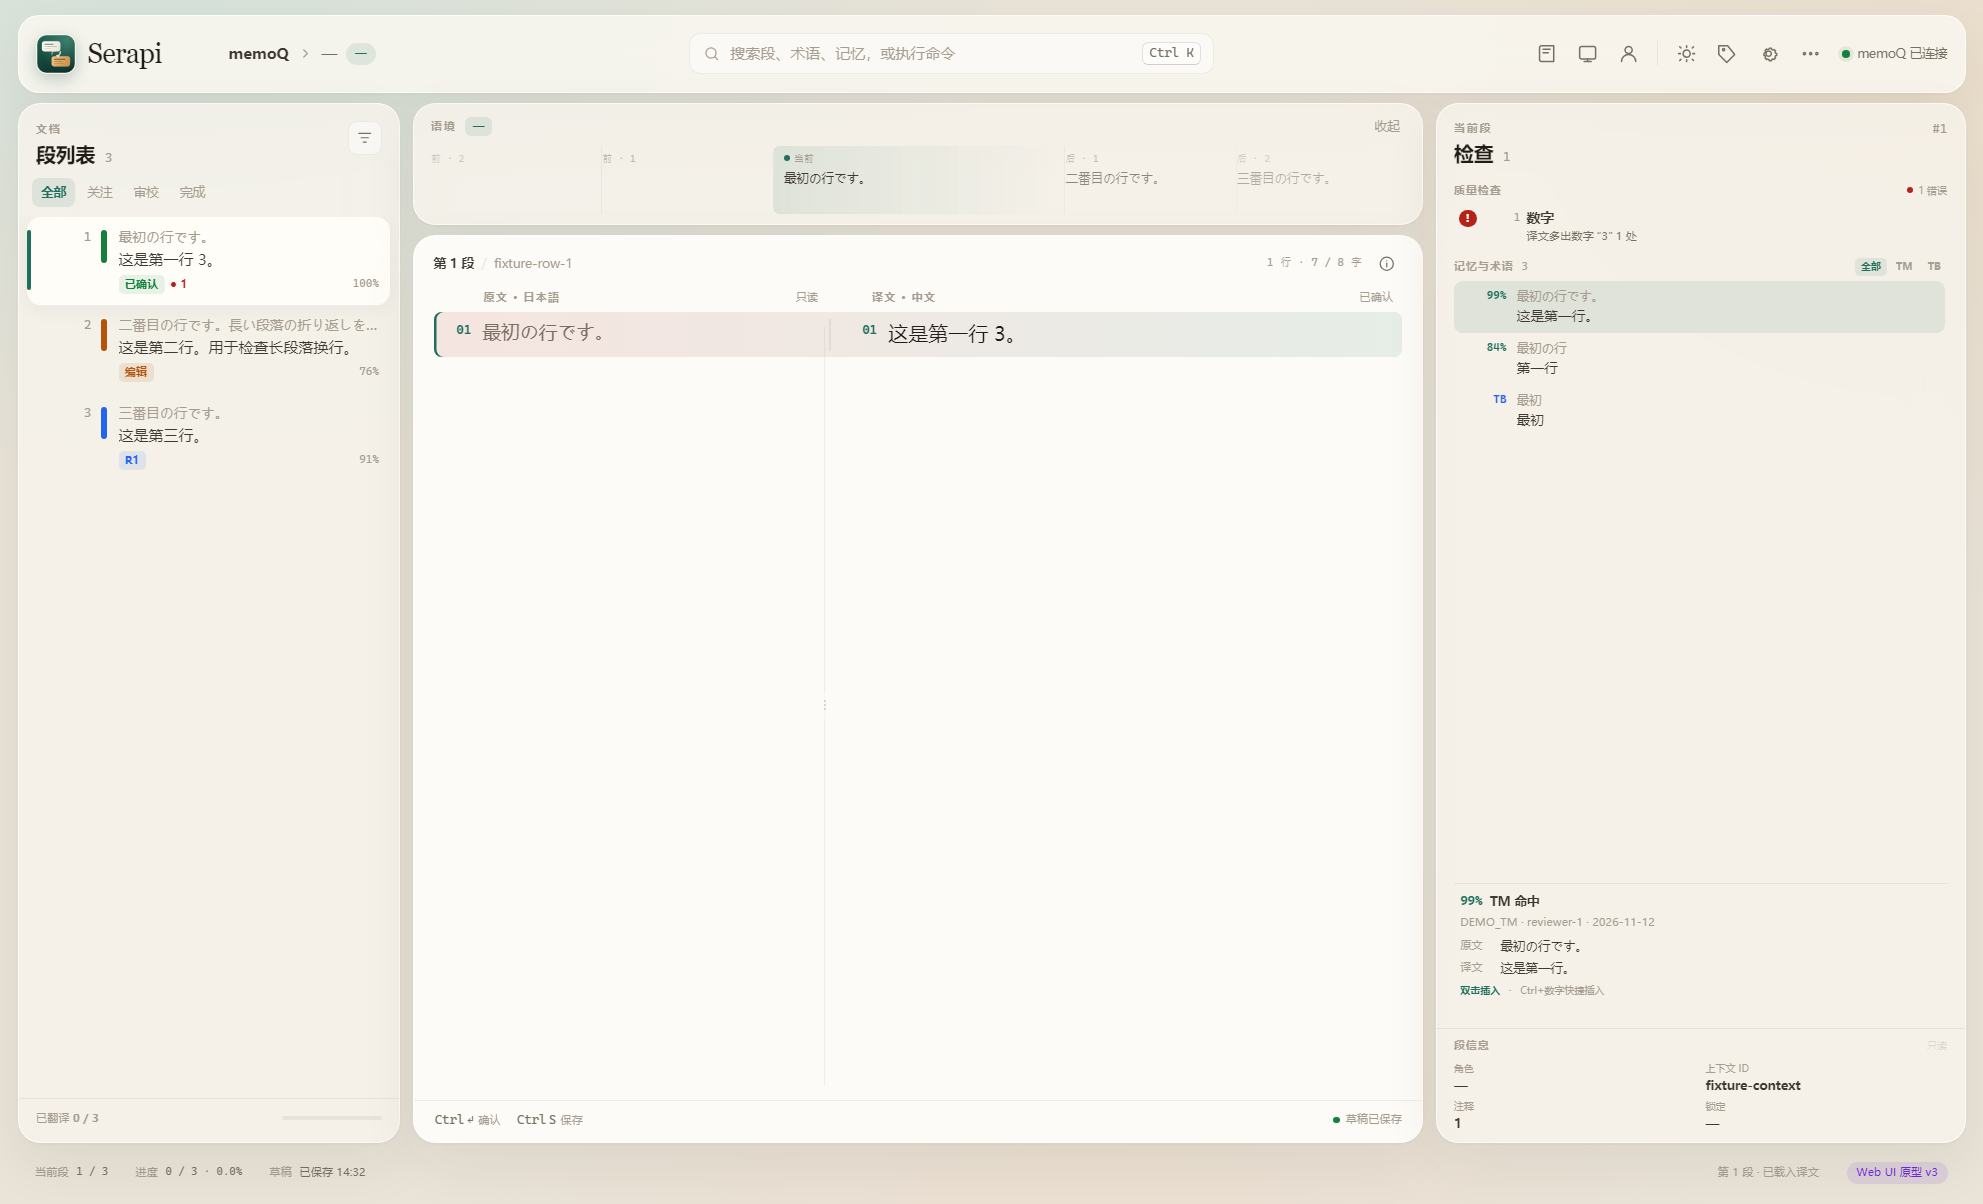
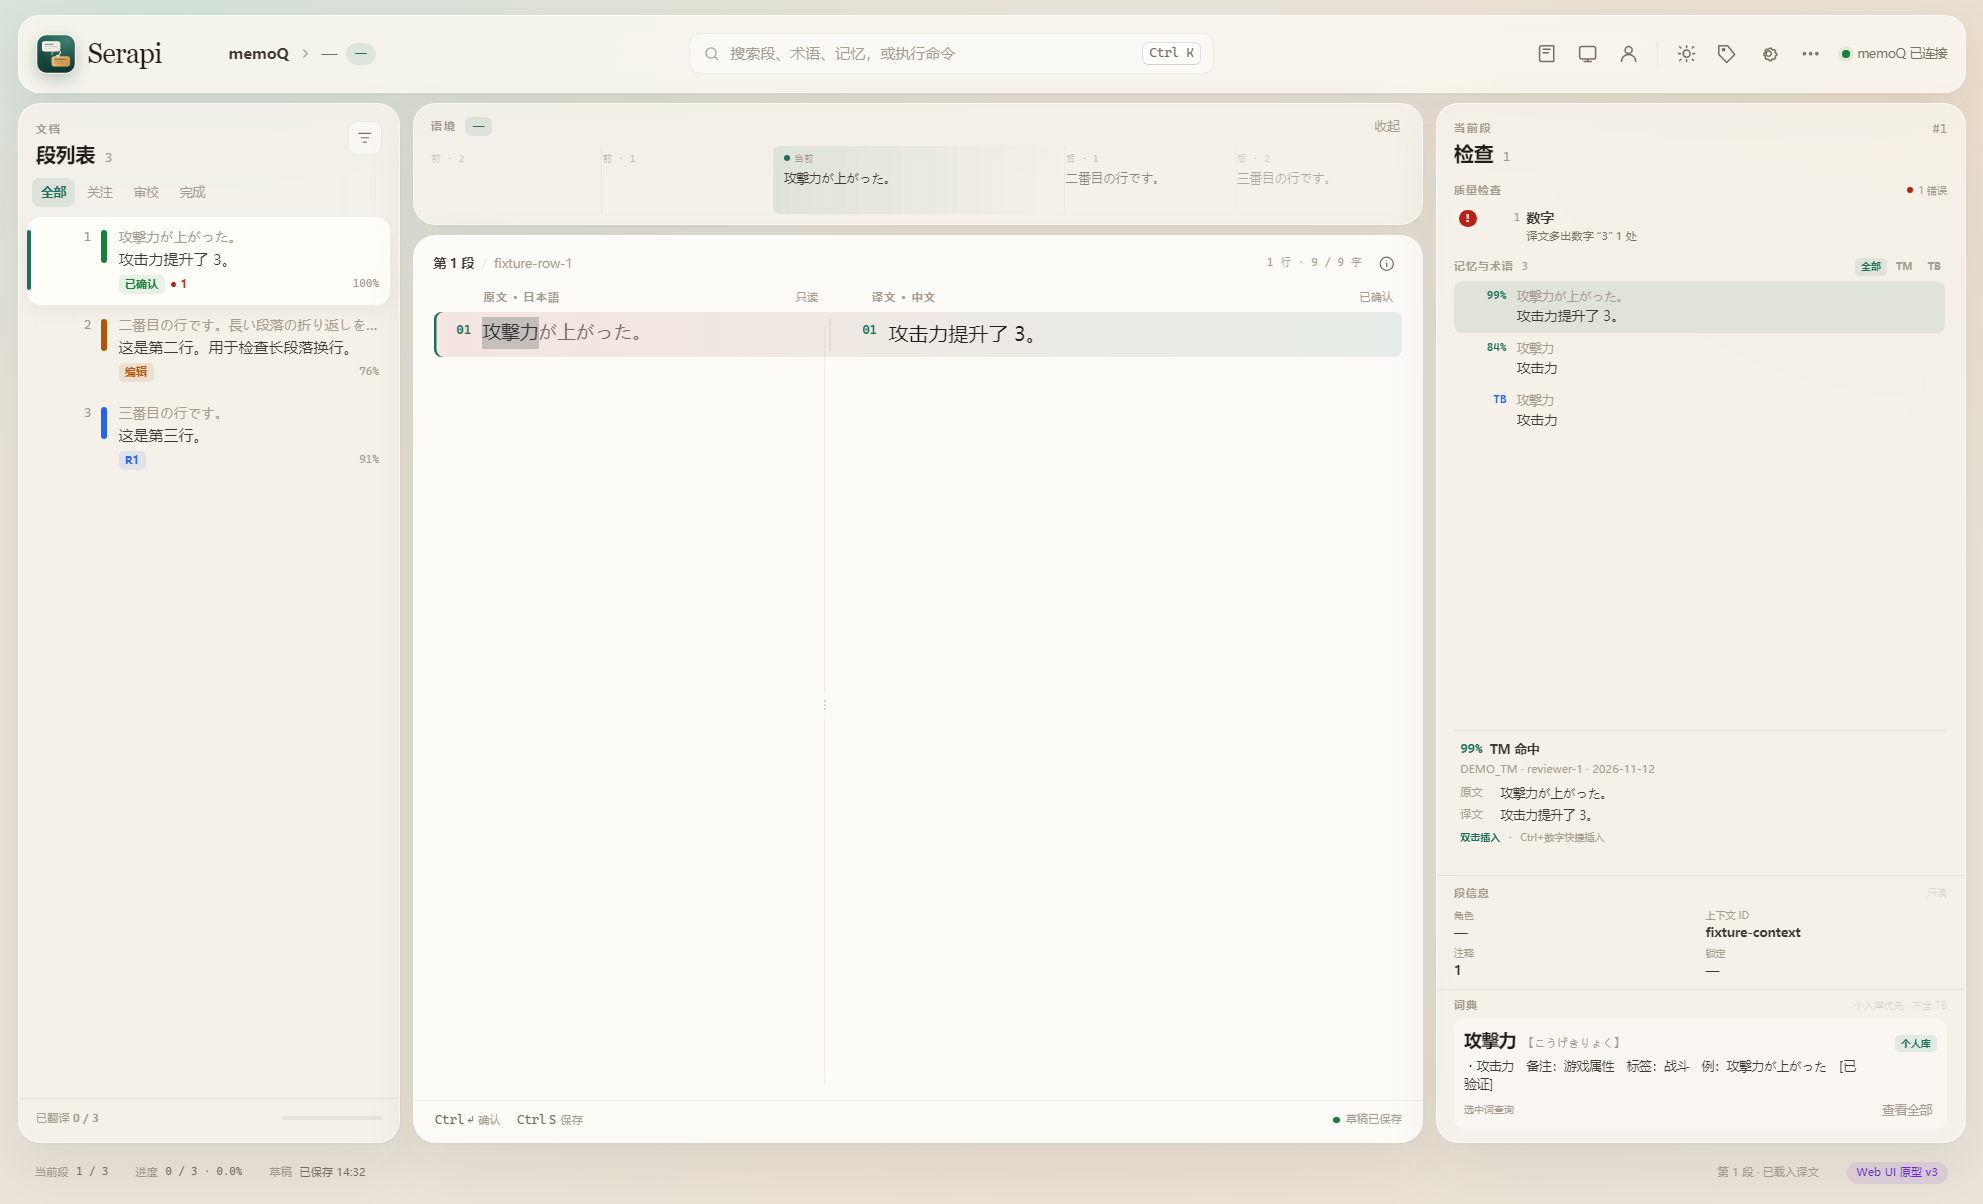
electron: selection-driven personal dictionary
- dictionary.query reuses app/assets.py, personal first, no TB
- selection in paired editor triggers compact word card
- capture helper selects a synthetic word for visual verification
- dictionary contract uses isolated synthetic assets fixture

diff --git a/electron/engine/fixture-api.html b/electron/engine/fixture-api.html
@@ -28,7 +28,7 @@
             total: 3,
             source: "new-api",
             rows: [
-              { rowNo: 1, rowId: "fixture-row-1", src: "最初の行です。", tgt: "这是第一行 3。", status: "manuallyConfirmed", tmRate: 100, locked: false },
+              { rowNo: 1, rowId: "fixture-row-1", src: "攻撃力が上がった。", tgt: "攻击力提升了 3。", status: "manuallyConfirmed", tmRate: 100, locked: false },
               { rowNo: 2, rowId: "fixture-row-2", src: "二番目の行です。長い段落の折り返しを確認します。", tgt: "这是第二行。用于检查长段落换行。", status: "partiallyEdited", tmRate: 76, locked: false },
               { rowNo: 3, rowId: "fixture-row-3", src: "三番目の行です。", tgt: "这是第三行。", status: "proofread", tmRate: 91, locked: false }
             ]
@@ -38,7 +38,7 @@
           return {
             ok: true,
             rows: [
-              { rowNo: 1, sourcecell: '最初の行です。', speaker: '', maxLen: 0, extras: [] },
+              { rowNo: 1, sourcecell: '攻撃力が上がった。', speaker: '', maxLen: 0, extras: [] },
               { rowNo: 2, sourcecell: '二番目の行です。', speaker: 'アリス', maxLen: 42, extras: [] },
               { rowNo: 3, sourcecell: '三番目の行です。', speaker: '', maxLen: 0, extras: [] },
               { rowNo: 4, sourcecell: '四番目の行です。', speaker: '', maxLen: 0, extras: [] },
@@ -50,11 +50,11 @@
           window.__fixtureTm = {
             status: 'done',
             tm: [
-              { rate: 99, res: 'DEMO_TM', user: 'reviewer-1', time: '2026-11-12', srcDisp: '最初の行です。', tgtDecorated: '这是第一行。' },
-              { rate: 84, res: 'DEMO_TM', user: 'reviewer-2', time: '2026-11-10', srcDisp: '最初の行', tgtDecorated: '第一行' }
+              { rate: 99, res: 'DEMO_TM', user: 'reviewer-1', time: '2026-11-12', srcDisp: '攻撃力が上がった。', tgtDecorated: '攻击力提升了 3。' },
+              { rate: 84, res: 'DEMO_TM', user: 'reviewer-2', time: '2026-11-10', srcDisp: '攻撃力', tgtDecorated: '攻击力' }
             ],
             tb: [
-              { s: '最初', t: '最初', res: 'Demo Terms', user: '', time: '' }
+              { s: '攻撃力', t: '攻击力', res: 'Demo Terms', user: '', time: '' }
             ]
           };
           return { ok: true, row: rowNo };
@@ -80,8 +80,8 @@
           }
           return {
             ok: true, rowId: rowId, rowNo: 1, locked: false,
-            srcTokens: [{ t: 'text', v: '最初の行です。' }],
-            tokens: [{ t: 'text', v: '这是第一行 3。' }]
+            srcTokens: [{ t: 'text', v: '攻撃力が上がった。' }],
+            tokens: [{ t: 'text', v: '攻击力提升了 3。' }]
           };
         }
       }

diff --git a/electron/workspace/app.js b/electron/workspace/app.js
@@ -312,6 +312,55 @@ async function loadContextForSegment(seg, index) {
   } catch (_) {}
 }
 
+let dictTimer = null;
+
+async function lookupSelectedWord(word) {
+  const host = window.serapiHost;
+  const section = document.querySelector("#dictSection");
+  if (!host || !host.sidecar || !section) return;
+  try {
+    const reply = await host.sidecar.call("dictionary.query", { word });
+    const result = reply && reply.ok ? reply.result : null;
+    if (!result || !result.ok || !Array.isArray(result.hits) || !result.hits.length) {
+      section.hidden = true;
+      return;
+    }
+    const hit = result.hits[0];
+    const entry = String((hit.entries && hit.entries[0]) || "").trim();
+    if (!entry) { section.hidden = true; return; }
+    const lines = entry.split("\n");
+    const first = lines.shift() || "";
+    let reading = "";
+    if (first.includes(word)) reading = first.replace(word, "").trim();
+    document.querySelector("#dictTerm").textContent = result.word || word;
+    document.querySelector("#dictReading").textContent = reading;
+    document.querySelector("#dictMeaning").textContent = lines.join(" · ").trim() || entry;
+    document.querySelector("#dictSection .dict-source").textContent = hit.name || "词典";
+    section.hidden = false;
+  } catch (_) {}
+}
+
+function initDictionarySelection() {
+  if (!window.serapiHost || !window.serapiHost.sidecar) return;
+  document.addEventListener("selectionchange", () => {
+    const selection = window.getSelection();
+    if (!selection || selection.isCollapsed) return;
+    const text = String(selection.toString() || "").trim();
+    if (!text || text.length > 40) return;
+    const node = selection.anchorNode;
+    const el = node && (node.nodeType === 3 ? node.parentElement : node);
+    if (!el || !el.closest || !el.closest("#codePane")) return;
+    clearTimeout(dictTimer);
+    dictTimer = setTimeout(() => lookupSelectedWord(text), 220);
+  });
+  // Double-click inside a paired row is the deliberate lookup gesture.
+  document.querySelector("#codePane").addEventListener("dblclick", () => {
+    const selection = window.getSelection();
+    const text = String(selection ? selection.toString() : "").trim();
+    if (text) lookupSelectedWord(text);
+  });
+}
+
 function initEngineEvents() {
   const host = window.serapiHost;
   if (!host || !host.onEngineEvent) return;
@@ -596,6 +645,7 @@ async function bootWorkspace() {
   initSplitter();
   initWelcome();
   initEngineEvents();
+  initDictionarySelection();
   loadSegmentDetail(state.current);
 }
 bootWorkspace();

diff --git a/electron/tests/sidecar-contract.js b/electron/tests/sidecar-contract.js
@@ -60,17 +60,19 @@ const requests = [
       { rowNo: 5, sourcecell: '后二' },
     ] },
   },
+  { id: 11, method: 'dictionary.query', params: { word: '攻撃力' } },
 ];
 const result = spawnSync(python, ['-u', sidecar], {
   cwd: path.join(root, '..'),
   input: requests.map((request) => JSON.stringify(request)).join('\n') + '\n',
   encoding: 'utf8',
   timeout: 10000,
-  env: { ...process.env, SERAPI_CONFIG_PATH: configPath },
+  env: { ...process.env, SERAPI_CONFIG_PATH: configPath,
+    SERAPI_ASSETS_DIR: path.join(root, 'fixtures', 'assets') },
 });
 assert.equal(result.status, 0, result.stderr || 'sidecar exited non-zero');
 const lines = result.stdout.trim().split(/\r?\n/).filter(Boolean);
-assert.equal(lines.length, 10, 'expected ten sidecar responses');
+assert.equal(lines.length, 11, 'expected eleven sidecar responses');
 const ping = JSON.parse(lines[0]);
 const version = JSON.parse(lines[1]);
 const config = JSON.parse(lines[2]);
@@ -81,6 +83,7 @@ const segment = JSON.parse(lines[6]);
 const qa = JSON.parse(lines[7]);
 const hits = JSON.parse(lines[8]);
 const context = JSON.parse(lines[9]);
+const dictionary = JSON.parse(lines[10]);
 assert.equal(ping.ok, true);
 assert.equal(ping.result.ok, true);
 assert.equal(version.ok, true);
@@ -115,6 +118,9 @@ assert.equal(context.ok, true);
 assert.equal(context.result.contextLines.length, 5);
 assert.equal(context.result.contextLines[1][1], '前一');
 assert.equal(context.result.contextLines[2][1], '当前原文');
+assert.equal(dictionary.ok, true);
+assert.ok(dictionary.result.hits.length >= 1);
+assert.ok(dictionary.result.hits[0].entries.length >= 1);
 assert.equal(JSON.parse(fs.readFileSync(configPath, 'utf8')).memoq_url,
   'https://demo.example.invalid/memoqweb');
 fs.rmSync(tmpDir, { recursive: true, force: true });

diff --git a/electron/main.js b/electron/main.js
@@ -157,6 +157,25 @@ async function captureAndQuit(target) {
       await new Promise((resolve) => targetView.webContents.once('did-finish-load', resolve));
     }
     await new Promise((resolve) => setTimeout(resolve, 900));
+    if (!captureEngine && process.env.SERAPI_CAPTURE_SELECT === '1') {
+      try {
+        await workspace.webContents.executeJavaScript(`(() => {
+          const el = document.querySelector('#codePane .source-text');
+          if (!el || !el.firstChild) return '';
+          const range = document.createRange();
+          range.setStart(el.firstChild, 0);
+          range.setEnd(el.firstChild, Math.min(3, el.firstChild.textContent.length));
+          const selection = window.getSelection();
+          selection.removeAllRanges();
+          selection.addRange(range);
+          document.dispatchEvent(new Event('selectionchange'));
+          return selection.toString();
+        })()`, true);
+        await new Promise((resolve) => setTimeout(resolve, 800));
+      } catch (err) {
+        console.error('[serapi] capture selection failed:', err);
+      }
+    }
     const image = await targetView.webContents.capturePage();
     fs.writeFileSync(targetPath, image.toPNG());
     console.log('[serapi] capture:', targetPath, image.getSize());

diff --git a/electron/tests/host-contract.js b/electron/tests/host-contract.js
@@ -73,6 +73,9 @@ assert.match(workspaceJs, /loadHitsForSegment/, 'workspace loads TM/TB hits');
 assert.match(workspaceJs, /workspace\.normalize_hits/, 'workspace normalizes hits in the sidecar');
 assert.match(workspaceJs, /initEngineEvents/, 'workspace listens to forwarded Engine events');
 assert.match(workspaceJs, /workspace\.normalize_context/, 'workspace normalizes context in the sidecar');
+assert.match(workspaceJs, /dictionary\.query/, 'workspace queries the local dictionary');
+assert.match(workspaceJs, /initDictionarySelection/, 'workspace looks up only the selected word');
+assert.match(workspaceJs, /lookupSelectedWord/, 'dictionary lookup is selection-driven');
 assert.match(preload, /onEngineEvent/, 'preload exposes Engine event forwarding');
 assert.match(main, /engine:event/, 'main forwards Engine events to the workspace');
 assert.match(workspaceJs, /tmHitsPoll/, 'TM/TB polling is wired through engine API');

diff --git a/electron/sidecar.py b/electron/sidecar.py
@@ -398,6 +398,55 @@ def _workspace_normalize_context(params):
         lines.append([label, text[:160]])
     return {"ok": True, "contextLines": lines}
 
+
+_DICT_SERVICE = None
+
+
+def _dictionary_service():
+    global _DICT_SERVICE
+    if _DICT_SERVICE is not None:
+        return _DICT_SERVICE
+    sys.path.insert(0, str(ROOT))
+    try:
+        from app import assets
+        override = os.environ.get("SERAPI_ASSETS_DIR")
+        if override:
+            base = Path(override)
+            assets.ASSET_DIR = base
+            assets.PERSONAL_JSON = base / "personal.json"
+            assets.PERSONAL_STARDICT = base / "personal"
+            assets.CONFIG_PATH = base / "config.json"
+        _DICT_SERVICE = assets.DictionaryService()
+    except Exception:
+        _DICT_SERVICE = None
+    return _DICT_SERVICE
+
+
+def _dictionary_query(params):
+    word = str((params or {}).get("word") or "").strip()[:80]
+    if not word:
+        return {"ok": False, "error": "empty-word"}
+    service = _dictionary_service()
+    if service is None:
+        return {"ok": True, "word": word, "hits": [], "candidates": []}
+    try:
+        result = service.query(word, max_candidates=3)
+    except Exception as exc:
+        return {"ok": False, "error": "query-failed", "detail": str(exc)[:200]}
+    hits = []
+    for hit in result.get("hits") or []:
+        if not isinstance(hit, dict):
+            continue
+        entries = [str(e).strip()[:1200] for e in hit.get("entries") or [] if str(e).strip()]
+        if entries:
+            hits.append({"name": str(hit.get("name") or "词典"), "entries": entries[:2]})
+    return {
+        "ok": True,
+        "word": result.get("word") or word,
+        "hits": hits[:3],
+        "candidates": [str(c) for c in result.get("candidates") or []][:3],
+    }
+
 METHODS = {
     "ping": _ping,
     "version": _version,
@@ -410,6 +459,7 @@ METHODS = {
     "qa.config": _qa_config,
     "workspace.normalize_hits": _workspace_normalize_hits,
     "workspace.normalize_context": _workspace_normalize_context,
+    "dictionary.query": _dictionary_query,
 }
 
 

diff --git a/docs/electron-migration.md b/docs/electron-migration.md
@@ -99,15 +99,16 @@ Electron main
 - 段信息已接入：Engine `segmentInfo(rowNo)` → contextId/comments/speaker（有则用）；
 - TM/TB 已接入：Engine `tmHitsReq` + `tmHitsPoll` → sidecar `workspace.normalize_hits` → 右栏列表/固定详情；
 - 语境已接入：Engine `previewContextReq` / `preview-context` 事件 → 主进程转发 `engine:event` → sidecar `workspace.normalize_context` → 语境带；
+- 词典已接入：源文/译文选区 → sidecar `dictionary.query`（复用 `app/assets.py`，个人库优先，不含 TB）→ 右栏单词卡；
+- 词典只在选中词时查询，不扫描全文；无命中时隐藏；
 - Engine 事件转发通道：`engine:bridge` → `workspace.webContents.send('engine:event')` → preload `onEngineEvent`；
-- 真实路径 fixture：`engine/fixture-api.html`（listRows + readSegment + segmentInfo + tmHits + previewContext + QA lint）；
-- 真实数据路径截图：`electron/preview-realpath-fixture.png`（3 行合成数据，含 QA、段信息、TM/TB、语境）；
+- 真实路径 fixture：`engine/fixture-api.html`（listRows + readSegment + segmentInfo + tmHits + previewContext + dictionary + QA lint）；
+- 真实数据路径截图：`electron/preview-realpath-fixture.png`（3 行合成数据，含 QA、段信息、TM/TB、语境、选中词词典）；
 - Workspace 截图（完整合成快照）：`electron/preview-electron.png`。
 
 **Step 3 待办**
 
 - 真实登录页/项目页验证各 Engine API 返回形状与事件时序；
-- 词典接入真实路径（先做选中词查询）；
 - 真实项目名/语言/进度从 Engine 状态读取；
 - 写路径保留在 Python sidecar，并补 WritePolicy 回归；
 - 真实数据接入前，任何真实 memoQ 正文不得写日志/截图。

diff --git a/electron/README.md b/electron/README.md
@@ -77,6 +77,9 @@ Captures the workspace View, then exits.
 - Context: `previewContextReq` + `preview-context` events are forwarded from the
   Engine through `engine:event`; sidecar `workspace.normalize_context` builds the
   five-line ribbon.
+- Dictionary: selecting a word in the paired editor calls sidecar
+  `dictionary.query` (reuses `app/assets.py`, personal library first, no TB).
+  No full-text scan; no hit → section stays hidden.
 - Reverse Engine API: `serapiHost.invokeEngineApi(method, args)` → restricted
   `window.__md.api.<method>` call. The allowlist is `engine-api-allowlist.json`.
 - Tests: `npm test` runs host + sidecar contract guards.
